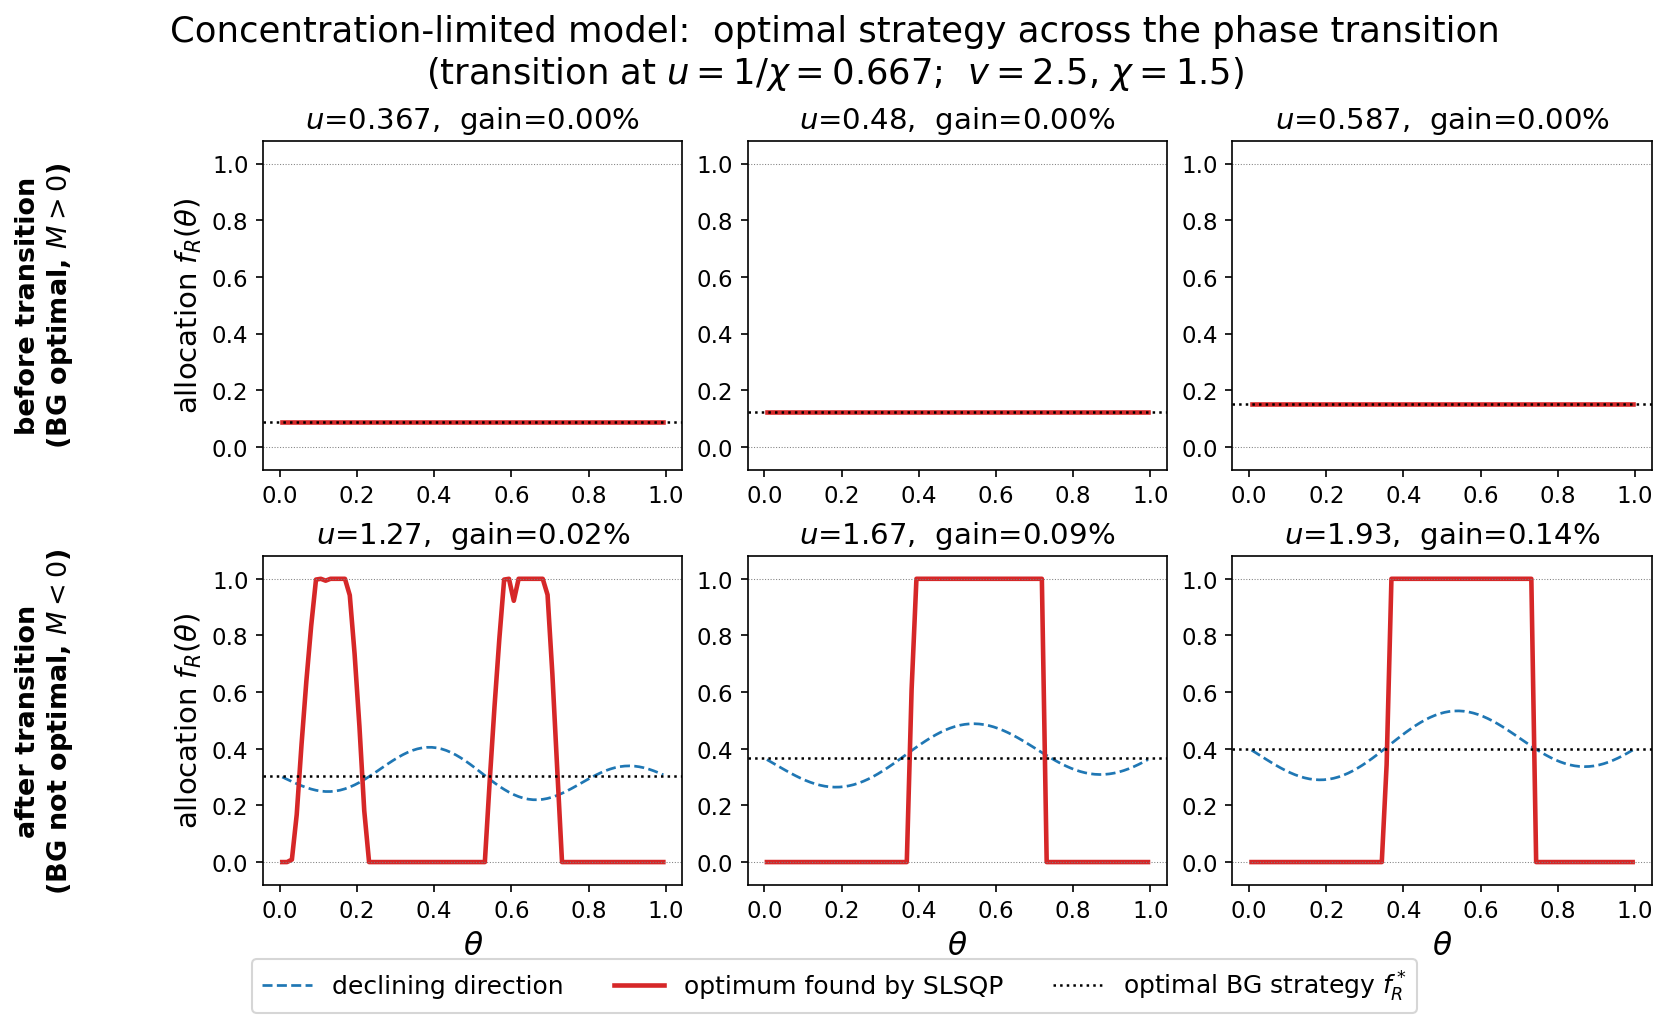
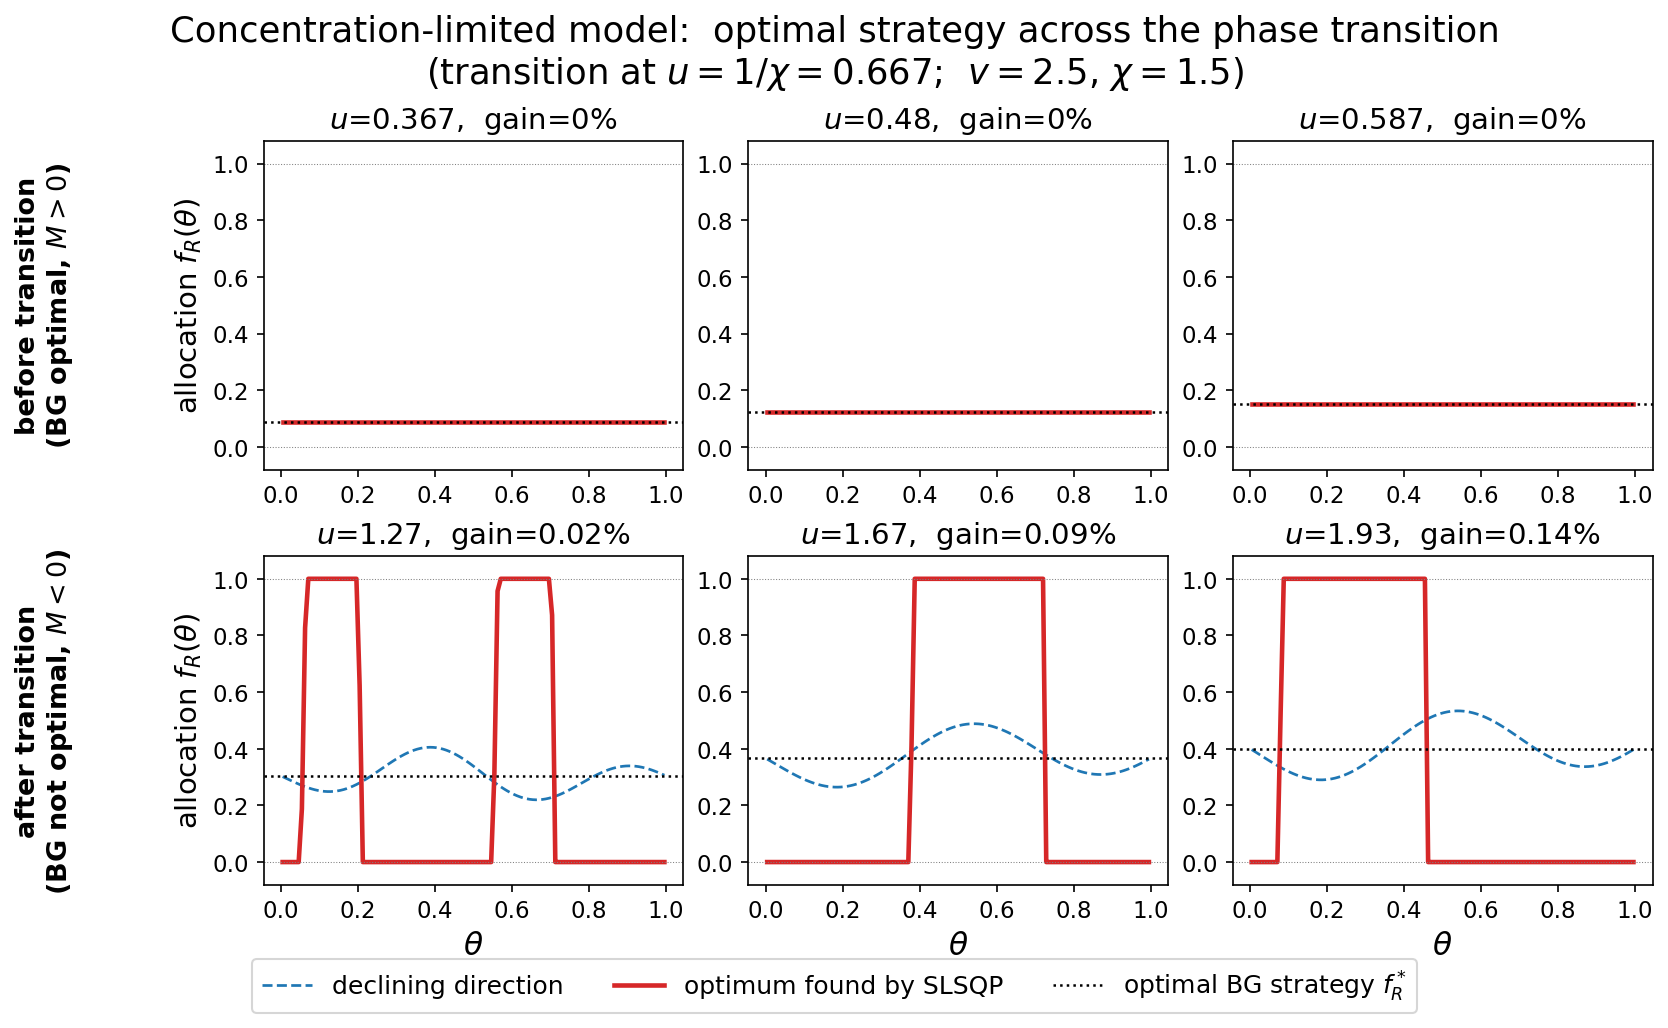
submission update

diff --git a/Thesis_code/Scripts/phase_transition_summary_plots.py b/Thesis_code/Scripts/phase_transition_summary_plots.py
@@ -39,7 +39,9 @@ The four models and their boundaries
         rho(q,z) = z / (1 + chi q).    
                 u = 1        (k_T = k_R).
 
-Output: ``phase_transition_summary.png`` (written to ../PNGs/).
+Output (written to ../PNGs/):
+  ``phase_transition_summary.png``        models (a), (c), (d)  -- thesis body
+  ``phase_transition_summary_modMM.png``  model (b)             -- appendix
 """
 
 import os
@@ -74,7 +76,7 @@ FS_ANNOT = 16        # in-panel annotations
 
 
 def _grid(n_u=400, n_km=400):
-    """(u, K_m) mesh; K_m logarithmic."""
+    """(chi u, K_m) mesh; K_m logarithmic.  The x-axis is chi*u throughout."""
     u = np.linspace(U_MIN, U_MAX, n_u)
     km = np.logspace(np.log10(KM_MIN), np.log10(KM_MAX), n_km)
     return np.meshgrid(u, km)          # U, KM
@@ -87,7 +89,7 @@ def _shade(ax, U, KM, dynamic):
     ax.set_yscale("log")
     ax.set_xlim(U_MIN, U_MAX)
     ax.set_ylim(KM_MIN, KM_MAX)
-    ax.set_xlabel(r"$u$", fontsize=FS_LABEL)
+    ax.set_xlabel(r"$\chi u$", fontsize=FS_LABEL)
     ax.set_ylabel(r"$K_m$", fontsize=FS_LABEL)
     ax.tick_params(axis="both", which="major", labelsize=FS_TICK)
 
@@ -96,50 +98,50 @@ def _shade(ax, U, KM, dynamic):
 # One panel per model
 # ============================================================
 
-def panel_step(ax):
-    """(a) Two-regime step-function model: BG optimal everywhere."""
+def panel_step(ax, label="(a)"):
+    """Two-regime step-function model: BG globally optimal everywhere."""
     U, KM = _grid()
     dynamic = np.zeros_like(U, dtype=bool)          # never time-dependent
     _shade(ax, U, KM, dynamic)
     ax.text(0.5, 0.5, "BG optimal\neverywhere\n(no transition)",
             transform=ax.transAxes, ha="center", va="center",
             fontsize=FS_ANNOT + 2, fontweight="bold", color="#08519c")
-    ax.set_title("(a) Two-regime model", fontsize=FS_TITLE)
+    ax.set_title(f"{label} Two-regime model", fontsize=FS_TITLE)
 
 
-def panel_mm_R(ax):
-    """(b) Modified MM: K_m = 1/(chi u - 1)."""
+def panel_mm_R(ax, label=""):
+    """Modified MM: K_m = 1/(chi u - 1)."""
     U, KM = _grid()
-    # M_chi > 0  <=>  K_m (chi u - 1) < 1  ->  BG optimal.
-    dynamic = KM * (CHI * U - 1.0) > 1.0
+    # M_chi > 0  <=>  K_m (chi u - 1) < 1  ->  BG optimal.  (U here is chi*u.)
+    dynamic = KM * (U - 1.0) > 1.0
     _shade(ax, U, KM, dynamic)
 
     # Transition curve K_m = 1/(chi u - 1), drawn only where chi u > 1.
-    u_line = np.linspace(1.0 / CHI + 1e-3, U_MAX, 400)
-    km_line = 1.0 / (CHI * u_line - 1.0)
+    u_line = np.linspace(1.0 + 1e-3, U_MAX, 400)
+    km_line = 1.0 / (u_line - 1.0)
     inwin = (km_line >= KM_MIN) & (km_line <= KM_MAX)
     ax.plot(u_line[inwin], km_line[inwin], "k-", lw=2.2)
-    # Vertical asymptote u = 1/chi (the K_m -> inf limit of this boundary).
-    ax.axvline(1.0 / CHI, color="k", ls=":", lw=1.2)
-    ax.text(1.0 / CHI, KM_MAX * 0.55, r"$u=1/\chi$", rotation=90,
+    # Vertical asymptote chi u = 1 (the K_m -> inf limit of this boundary).
+    ax.axvline(1.0, color="k", ls=":", lw=1.2)
+    ax.text(1.0, KM_MAX * 0.55, r"$\chi u=1$", rotation=90,
             ha="right", va="top", fontsize=FS_ANNOT - 2)
 
-    ax.set_title(r"(b) Modified MM:  "
-                 r"$K_m=\dfrac{1}{\chi u-1}$" + f"",
-                 fontsize=FS_TITLE)
+    ax.set_title(f"{label} Modified MM:  ".lstrip()
+                 + r"$K_m=\dfrac{1}{\chi u-1}$",
+                 fontsize=FS_TITLE, pad=12)
 
 
-def panel_mm_classic(ax):
-    """(c) MM model: u = 1."""
+def panel_mm_classic(ax, label="(b)"):
+    """MM model: u = 1."""
     U, KM = _grid()
     dynamic = U > 1.0
     _shade(ax, U, KM, dynamic)
     ax.axvline(1.0, color="k", lw=2.2)
-    ax.set_title(r"(c) MM model:  $u=1$", fontsize=FS_TITLE)
+    ax.set_title(f"{label} MM model:  " + r"$\chi u=1$", fontsize=FS_TITLE)
 
 
-def panel_large_km(ax):
-    """(d) Concentration-limited (A/V scaling) model: u = 1."""
+def panel_large_km(ax, label="(c)"):
+    """Concentration-limited (A/V scaling) model: u = 1."""
     U, KM = _grid()
     dynamic = U > 1.0
     _shade(ax, U, KM, dynamic)
@@ -148,7 +150,7 @@ def panel_large_km(ax):
     #ax.text(0.03, 0.97, r"($A/V$ scaling)",
      #       transform=ax.transAxes, ha="left", va="top", fontsize=9,
      #       bbox=dict(boxstyle="round", fc="white", ec="gray", alpha=0.85))
-    ax.set_title(r"(d) Concentration-limited model:  $u=1$",
+    ax.set_title(f"{label} Concentration-limited model:\n" + r"$\chi u=1$",
                  fontsize=FS_TITLE)
 
 
@@ -156,14 +158,7 @@ def panel_large_km(ax):
 # Figure
 # ============================================================
 
-def make_figure(outdir):
-    fig, axes = plt.subplots(2, 2, figsize=(12.5, 9.5),
-                             constrained_layout=True)
-    panel_step(axes[0, 0])
-    panel_mm_R(axes[0, 1])
-    panel_mm_classic(axes[1, 0])
-    panel_large_km(axes[1, 1])
-
+def _legend(fig, y):
     legend_handles = [
         Patch(facecolor=C_BG, edgecolor="none",
               label="BG locally optimal"),
@@ -172,12 +167,37 @@ def make_figure(outdir):
         #Line2D([0], [0], color="k", lw=2.2, label="transition boundary"),
     ]
     fig.legend(handles=legend_handles, loc="lower center", ncol=3,
-               fontsize=FS_LEGEND, bbox_to_anchor=(0.5, -0.06))
+               fontsize=FS_LEGEND, bbox_to_anchor=(0.5, y))
+
+
+def make_figure(outdir):
+    """Thesis body: two-regime, MM and concentration-limited models."""
+    fig, axes = plt.subplots(1, 3, figsize=(18.5, 6.0),
+                             constrained_layout=True)
+    panel_step(axes[0], "(a)")
+    panel_mm_classic(axes[1], "(b)")
+    panel_large_km(axes[2], "(c)")
+    _legend(fig, -0.12)
 
     fig.suptitle("Balanced-growth phase transition across the models",
                  fontsize=FS_SUPTITLE, fontweight="bold")
 
     png = os.path.join(outdir, "phase_transition_summary.png")
+    fig.savefig(png, dpi=150, bbox_inches="tight")
+    print(f"Saved figure to: {png}")
+    return fig
+
+
+def make_figure_modMM(outdir):
+    """Appendix: the modified MM model on its own."""
+    fig, ax = plt.subplots(figsize=(7.0, 6.0), constrained_layout=True)
+    panel_mm_R(ax)
+    _legend(fig, -0.14)
+
+    fig.suptitle("Balanced-growth phase transition, modified MM model",
+                 fontsize=FS_SUPTITLE, fontweight="bold")
+
+    png = os.path.join(outdir, "phase_transition_summary_modMM.png")
     fig.savefig(png, dpi=150, bbox_inches="tight")
     print(f"Saved figure to: {png}")
     return fig
@@ -190,6 +210,7 @@ def main():
     )
     os.makedirs(outdir, exist_ok=True)
     make_figure(outdir)
+    make_figure_modMM(outdir)
     plt.show()
 
 

diff --git a/Thesis_code/Scripts/tau_fR.py b/Thesis_code/Scripts/tau_fR.py
@@ -65,55 +65,65 @@ def tau_from_z(f, z, rho):
     # so lambda = (1-f)/(rho + f z) and tau = ln2/lambda.
     return np.log(2) * (rho + f*z) / (1 - f)
 
-models = {
-    "Standard MM model": (z_mm, RHO_MM),
-    "Modified MM model": (z_modified, RHO_MODIFIED),
-    "Concentration limited model": (z_concentration, RHO_CONCENTRATION),
+# The modified MM model is in the thesis appendix, so it gets its own figure.
+FIGURES = {
+    "tau_fR.png": {
+        "Standard MM model": (z_mm, RHO_MM),
+        "Concentration limited model": (z_concentration, RHO_CONCENTRATION),
+    },
+    "tau_fR_modMM.png": {
+        "Modified MM model": (z_modified, RHO_MODIFIED),
+    },
 }
 
-fig, axes = plt.subplots(1, len(models), figsize=(5.5 * len(models), 6.0))
-
 f_values = np.linspace(0.01, 0.9, 1500)
-
-for ax, (name, (z_func, rho)) in zip(axes, models.items()):
-    tau_values = tau_from_z(
-        f_values, z_func(f_values), rho
-    )
-    ax.plot(f_values, tau_values, lw=2.5)
-
-    result = minimize_scalar(
-        lambda f: float(tau_from_z(f, z_func(f), rho)),
-        bounds=(0.001, 0.999),
-        method="bounded",
-        options={"xatol": 1e-12},
-    )
-
-    f_opt = result.x
-    tau_opt = result.fun
-
-    ax.axvline(f_opt, ls=":", lw=2.0, color="C3")
-    ax.plot([f_opt], [tau_opt], "o", color="C3", ms=10)
-    ax.set_title(name + "\n" + rf"$f_R^*={f_opt:.4f}$")
-    ax.set_xlabel(r"$f_R^{BG}$")
-    ax.set_ylabel(r"$\tau$")
-
-    print(
-        f"{name}: f_R* = {f_opt:.6f}, "
-        f"tau_min = {tau_opt:.6f}"
-    )
-
-for ax in axes[1:]:
-    ax.set_ylabel("")       # y label only on the leftmost panel
-fig.suptitle(r"Doubling time $\tau$ on the BG manifold")
-fig.tight_layout()
 
 # Figures are written to Thesis_code/PNGs (one level up from Scripts/)
 outdir = os.path.join(
     os.path.dirname(os.path.dirname(os.path.abspath(__file__))), "PNGs"
 )
 os.makedirs(outdir, exist_ok=True)
-png = os.path.join(outdir, "tau_fR.png")
-fig.savefig(png, dpi=300, bbox_inches="tight")
-print(f"saved {png}")
+
+for fname, models in FIGURES.items():
+    fig, axes = plt.subplots(1, len(models),
+                             figsize=(max(5.5 * len(models), 8.0), 6.0),
+                             squeeze=False)
+    axes = axes[0]
+
+    for ax, (name, (z_func, rho)) in zip(axes, models.items()):
+        tau_values = tau_from_z(
+            f_values, z_func(f_values), rho
+        )
+        ax.plot(f_values, tau_values, lw=2.5)
+
+        result = minimize_scalar(
+            lambda f: float(tau_from_z(f, z_func(f), rho)),
+            bounds=(0.001, 0.999),
+            method="bounded",
+            options={"xatol": 1e-12},
+        )
+
+        f_opt = result.x
+        tau_opt = result.fun
+
+        ax.axvline(f_opt, ls=":", lw=2.0, color="C3")
+        ax.plot([f_opt], [tau_opt], "o", color="C3", ms=10)
+        ax.set_title(name + "\n" + rf"$f_R^*={f_opt:.4f}$")
+        ax.set_xlabel(r"$f_R^{BG}$")
+        ax.set_ylabel(r"$\tau$")
+
+        print(
+            f"{name}: f_R* = {f_opt:.6f}, "
+            f"tau_min = {tau_opt:.6f}"
+        )
+
+    for ax in axes[1:]:
+        ax.set_ylabel("")       # y label only on the leftmost panel
+    fig.suptitle(r"Doubling time $\tau$ on the BG manifold")
+    fig.tight_layout()
+
+    png = os.path.join(outdir, fname)
+    fig.savefig(png, dpi=300, bbox_inches="tight")
+    print(f"saved {png}")
 
 plt.show()

diff --git a/Thesis_code/Scripts/phase_transition_three_models.py b/Thesis_code/Scripts/phase_transition_three_models.py
@@ -584,7 +584,7 @@ def _solve_ocp(model, x0, bounds, K, P, m):
         constraints=[{"type": "eq",
                       "fun": lambda x: ensure(x)["c"],
                       "jac": lambda x: ensure(x)["J"]}],
-        options={"maxiter": 300, "ftol": 1e-11},
+        options={"maxiter": 2000, "ftol": 1e-11},
     )
     f, q0_, z0_, Pd = unpack(res.x)
     resid = float(np.max(np.abs(ensure(res.x)["c"])))
@@ -719,7 +719,7 @@ def find_transition(model, P, key, lo, hi, n_coarse=40):
 MULTS = np.array([0.55, 0.72, 0.88, 1.9, 2.5, 2.9])
 
 
-def build_sweep(model, P, key, star, K=80, verbose=True):
+def build_sweep(model, P, key, star, K=120, verbose=True):
     records, guess, warm = [], (1.0, 1.0), None
     for val in star * MULTS:
         pt = mn_at(model, P, key, val, guess)
@@ -738,7 +738,7 @@ def build_sweep(model, P, key, star, K=80, verbose=True):
         rec = analyse_point(model, Pv, pt, n, key, val, K=K_pt, warm=warm)
         warm = rec["warm"]
         if verbose:
-            print(f"  ->  P_true={rec['P_true']:.4f}  gain={rec['gain']:.2f}%  "
+            print(f"  ->  P_true={rec['P_true']:.4f}  gain={rec['gain']:.3e}%  "
                   f"switches={rec['switches']}")
         records.append(rec)
     return records
@@ -788,6 +788,17 @@ def analyse_point(model, P, pt, n, key, val, K=80, warm=None):
 # 7. Plot: 2x3 grid of optimal strategies (before / after)
 # ============================================================
 
+def fmt_gain(g):
+    """Gain in % for plot titles; scientific notation when |g| < 0.01 so small
+    (but nonzero) gains don't print as 0.00%."""
+    if not np.isfinite(g) or g == 0.0:
+        return "0%"
+    if abs(g) >= 0.01:
+        return f"{g:.2f}%"
+    mant, exp = f"{g:.2e}".split("e")
+    return rf"${mant}\times10^{{{int(exp)}}}$%"
+
+
 def fig_strategies(model, cfg, P, star, records, outdir):
     key = cfg["sweep"]
     recs = sorted(records, key=lambda r: r["M"], reverse=True)
@@ -820,7 +831,7 @@ def fig_strategies(model, cfg, P, star, records, outdir):
             ax.axhline(1.0, color="gray", ls=":", lw=0.5)
             ax.set_ylim(-0.08, 1.08)
             ax.set_title(rf"${sweep_sym}$={r['sweep_val']:.3g},  "
-                         rf"gain={r['gain']:.2f}%", fontsize=14)
+                         f"gain={fmt_gain(r['gain'])}", fontsize=14)
             ax.tick_params(labelsize=11)
 
     for i in range(2):

diff --git a/Thesis_code/Scripts/singular_arc_bg.py b/Thesis_code/Scripts/singular_arc_bg.py
@@ -307,22 +307,34 @@ def run_model(p, ax):
     return roots
 
 
-if __name__ == "__main__":
-    fig, axes = plt.subplots(1, len(MODELS), figsize=(5.5 * len(MODELS), 6.0))
-    for prm, ax in zip(MODELS, axes):
-        run_model(prm, ax)
-    for ax in axes[1:]:
-        ax.set_ylabel("")       # y label only on the leftmost panel
-    fig.suptitle(r"Constraint on $f_R^{BG}$")
-    fig.tight_layout()
+# The modified MM model is in the thesis appendix, so it gets its own figure.
+FIGURES = {
+    "singular_arc_bg.png": [p for p in MODELS if p["kind"] != "modMM"],
+    "singular_arc_bg_modMM.png": [p for p in MODELS if p["kind"] == "modMM"],
+}
 
+
+if __name__ == "__main__":
     # Figures are written to Thesis_code/PNGs (one level up from Scripts/)
     outdir = os.path.join(
         os.path.dirname(os.path.dirname(os.path.abspath(__file__))), "PNGs"
     )
     os.makedirs(outdir, exist_ok=True)
-    png = os.path.join(outdir, "singular_arc_bg.png")
-    fig.savefig(png, dpi=300, bbox_inches="tight")
-    print(f"saved {png}")
+
+    for fname, models in FIGURES.items():
+        fig, axes = plt.subplots(1, len(models),
+                                 figsize=(max(5.5 * len(models), 8.0), 6.0),
+                                 squeeze=False)
+        axes = axes[0]
+        for prm, ax in zip(models, axes):
+            run_model(prm, ax)
+        for ax in axes[1:]:
+            ax.set_ylabel("")       # y label only on the leftmost panel
+        fig.suptitle(r"Constraint on $f_R^{BG}$")
+        fig.tight_layout()
+
+        png = os.path.join(outdir, fname)
+        fig.savefig(png, dpi=300, bbox_inches="tight")
+        print(f"saved {png}")
 
     plt.show()
